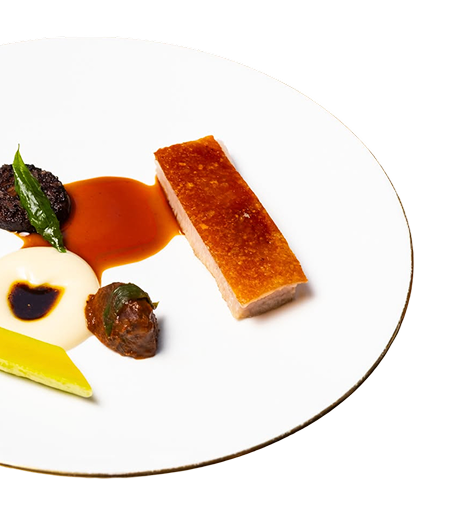
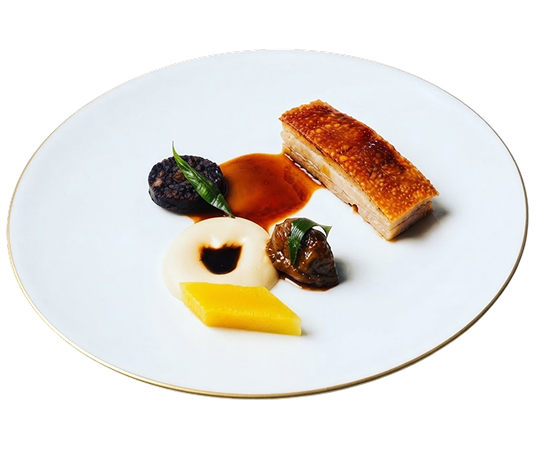
final-sweep1-wc3validate

diff --git a/css/stylesheet.scss b/css/stylesheet.scss
@@ -8,22 +8,26 @@ $brand-color1: #084794;
 $brand-color2: #FAF4ED;
 $line-height: 1.6;
 
+$font-serif: 'Cormorant', serif;
+$font-sans: 'Manrope', sans-serif;
+
+
 
 body {
     background-color: $brand-color2;
     margin: 0;
-    font-family: 'Manrope', sans-serif;
+    font-family: $font-sans;
     letter-spacing: 0.08rem;
     line-height: $line-height;
 }
 
 h1 {
-    font-family: 'Cormorant', serif;
+    font-family: $font-serif;
     color: $brand-color1;
 }
 
 h2 {
-    font-family: 'Cormorant', serif;
+    font-family: $font-serif;
     font-style: italic;
     font-weight: 200;
 }
@@ -67,7 +71,7 @@ h2 {
 }
 
 .landing__reservations, .landing__homepage {
-    font-family: 'Cormorant', serif;
+    font-family: $font-serif;
     color: $brand-color2;
     border: 2px solid $brand-color2;
     background-color: transparent;
@@ -88,7 +92,7 @@ nav {
 }
 
 .lettermark {
-    font-family: 'Cormorant', serif;
+    font-family: $font-serif;
     font-weight: 800;
     font-size: 3.5rem;
     color: $brand-color1;
@@ -105,7 +109,7 @@ ul {
 
 .nav__links li{
     list-style: none;
-    font-family: 'Cormorant', serif;
+    font-family: $font-serif;
     font-weight: 600;
     letter-spacing: 0.2em;
     text-transform: uppercase;
@@ -119,7 +123,7 @@ ul {
 }
 
 .nav__reservations {
-    font-family: 'Cormorant', serif;
+    font-family: $font-serif;
     color: $brand-color1;
     border: 2px solid $brand-color1;
     background-color: transparent;
@@ -307,7 +311,7 @@ ul {
 }
 
 .homepage__menu-btn, .homepage__reservations-btn {
-    font-family: 'Cormorant', serif;
+    font-family: $font-serif;
     color: $brand-color2;
     border: 2px solid $brand-color2;
     background-color: transparent;
@@ -327,7 +331,7 @@ ul {
 }
 
 .lettermark__about {
-    font-family: 'Cormorant', serif;
+    font-family: $font-serif;
     font-weight: 800;
     font-size: 4.5rem;
     color: $brand-color2;
@@ -431,7 +435,7 @@ ul {
 }
 
 .about__btn {
-    font-family: 'Cormorant', serif;
+    font-family: $font-serif;
     font-weight: 700;
     color: $brand-color1;
     border: 2px solid $brand-color1;
@@ -462,7 +466,7 @@ ul {
 }
 
 .lettermark__menu {
-    font-family: 'Cormorant', serif;
+    font-family: $font-serif;
     font-weight: 800;
     font-size: 3.5rem;
     color: $brand-color2;
@@ -524,7 +528,7 @@ ul {
 }
 
 .menu-item__name {
-    font-family: 'Cormorant', serif;
+    font-family: $font-serif;
     font-weight: 600;
     color: $brand-color1;
     font-size: 1.5rem;
@@ -614,7 +618,7 @@ ul {
 }
 
 .footer-lettermark {
-    font-family: 'Cormorant', serif;
+    font-family: $font-serif;
     font-weight: 800;
     font-size: 3.5rem;
     line-height: 5rem;
@@ -632,7 +636,7 @@ ul {
 .visit-title, 
 .follow-title,
 .sitemap-title {
-    font-family: 'Cormorant', serif;
+    font-family: $font-serif;
     font-weight: 700;
     text-transform: uppercase;
     font-size: 1rem;

diff --git a/html/menu.html b/html/menu.html
@@ -53,7 +53,7 @@
             Select a menu to view this season's courses.</p>
         </section>
 
-  <section class="menus">
+  <div class="menus">
  
         <article class="menu-panel is-open">
             <h2 class="menu-panel__heading">
@@ -160,7 +160,7 @@
             </div>
         </article>
  
-    </section>
+    </div>
  
 
 <script src="../javascript/menu.js"></script>
@@ -207,10 +207,10 @@
                 <div class="footer__sitemap">
                     <p class="sitemap-title">Sitemap</p>
                     <ul>
-                        <li><a href="../html/homepage.html" alt="homepage link">Home</a></li>
-                        <li><a href="../html/menu.html" alt="menu link">Menu</a></li>
-                        <li><a href="../html/about.html" alt="about link">About</a></li>
-                        <li><a href="#" target="_blank" alt="careers link">Careers</a></li>
+                        <li><a href="../html/homepage.html">Home</a></li>
+                        <li><a href="../html/menu.html">Menu</a></li>
+                        <li><a href="../html/about.html">About</a></li>
+                        <li><a href="#" target="_blank">Careers</a></li>
                     </ul>
                     <p class="footer__copyright">The Clove Club &copy; 2026</p>
                 </div>

diff --git a/html/about.html b/html/about.html
@@ -64,7 +64,7 @@
 
     <div class="chunk__divider">
         <div class="isaac__header-row">
-        <img src="../media/flower1.svg" class="isaac__flower">
+        <img src="../media/flower1.svg" alt="decorative flower image" class="isaac__flower">
         <h2 class="isaac-header">Journey to the Michelin Star</h2>
         </div>
 
@@ -126,10 +126,10 @@
                 <div class="footer__sitemap">
                     <p class="sitemap-title">Sitemap</p>
                     <ul>
-                        <li><a href="../html/homepage.html" alt="homepage link">Home</a></li>
-                        <li><a href="../html/menu.html" alt="menu link">Menu</a></li>
-                        <li><a href="../html/about.html" alt="about link">About</a></li>
-                        <li><a href="#" target="_blank" alt="careers link">Careers</a></li>
+                        <li><a href="../html/homepage.html">Home</a></li>
+                        <li><a href="../html/menu.html">Menu</a></li>
+                        <li><a href="../html/about.html">About</a></li>
+                        <li><a href="#" target="_blank">Careers</a></li>
                     </ul>
                     <p class="footer__copyright">The Clove Club &copy; 2026</p>
                 </div>

diff --git a/html/homepage.html b/html/homepage.html
@@ -129,10 +129,10 @@
                 <div class="footer__sitemap">
                     <p class="sitemap-title">Sitemap</p>
                     <ul>
-                        <li><a href="homepage.html" alt="homepage link">Home</a></li>
-                        <li><a href="menu.html" alt="menu link">Menu</a></li>
-                        <li><a href="about.html" alt="about link">About</a></li>
-                        <li><a href="#" target="_blank" alt="careers link">Careers</a></li>
+                        <li><a href="homepage.html">Home</a></li>
+                        <li><a href="menu.html">Menu</a></li>
+                        <li><a href="about.html">About</a></li>
+                        <li><a href="#" target="_blank">Careers</a></li>
                     </ul>
                     <p class="footer__copyright">The Clove Club &copy; 2026</p>
                 </div>
